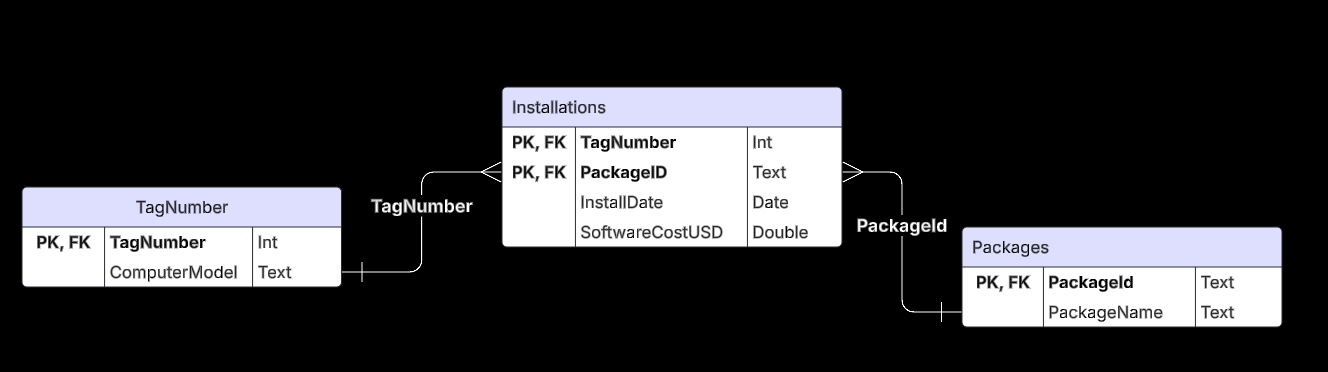
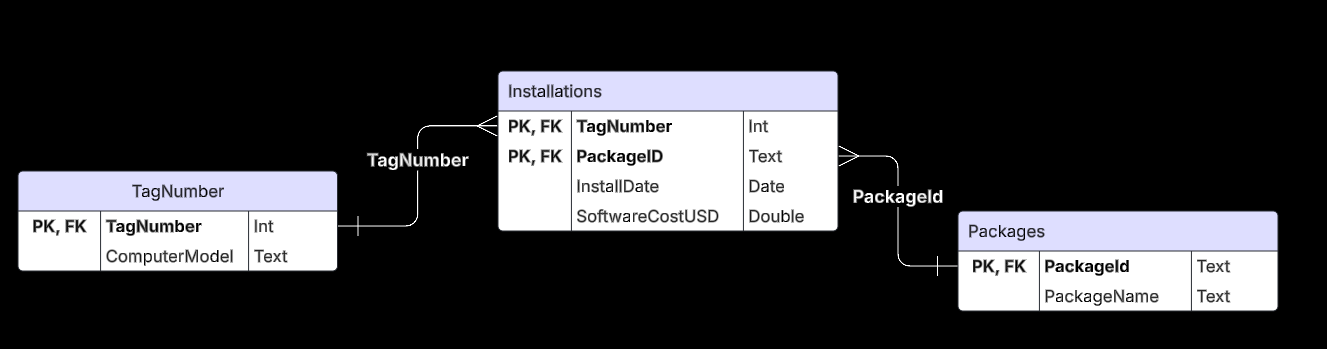
Lab 7 Submission

Changed region(s): [[0.0, 0.2006, 0.9887, 0.9169], [0.4326, 0.5158, 0.4943, 0.5731], [0.5561, 0.4298, 0.587, 0.4871]]

diff --git a/Lab7/lab7_writeup.md b/Lab7/lab7_writeup.md
@@ -150,5 +150,6 @@ It is 3NF because:
 It is BCNF because all functional dependencies originate from a superkey.
 
 \
-10.  **Draw a beautiful E/R diagram using LucidChart.**
+10.  **Draw a beautiful E/R diagram using LucidChart.** \
+We made a many-many relationship (many computers to many packages) via the installations table!
 ![ER Diagram](ER-Diagram.png)
